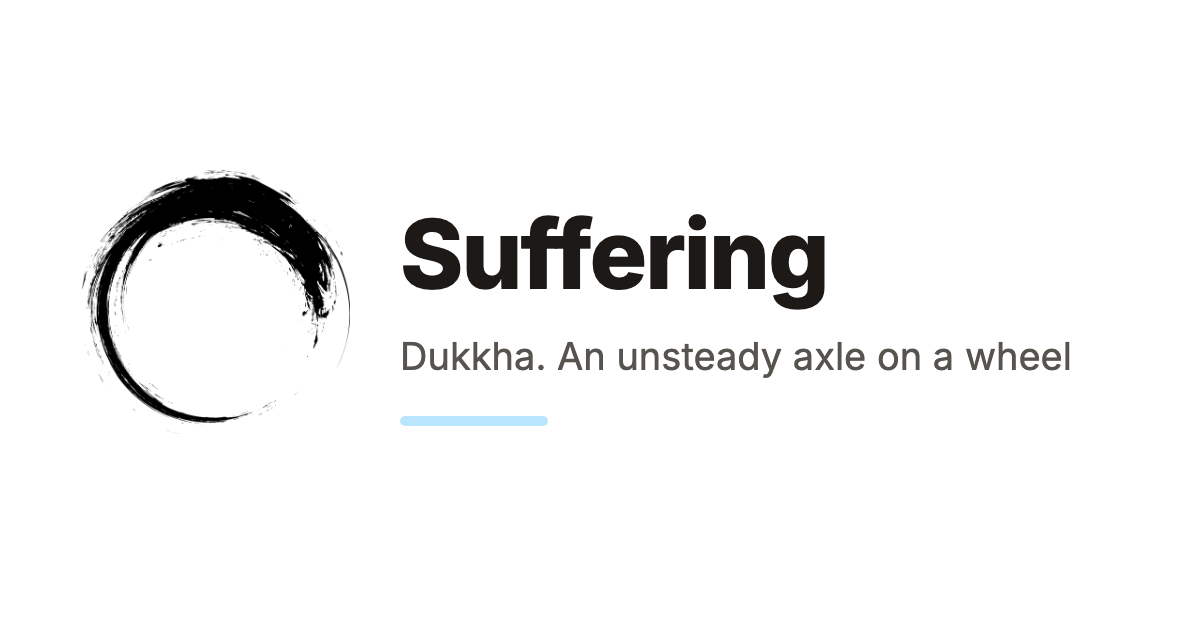
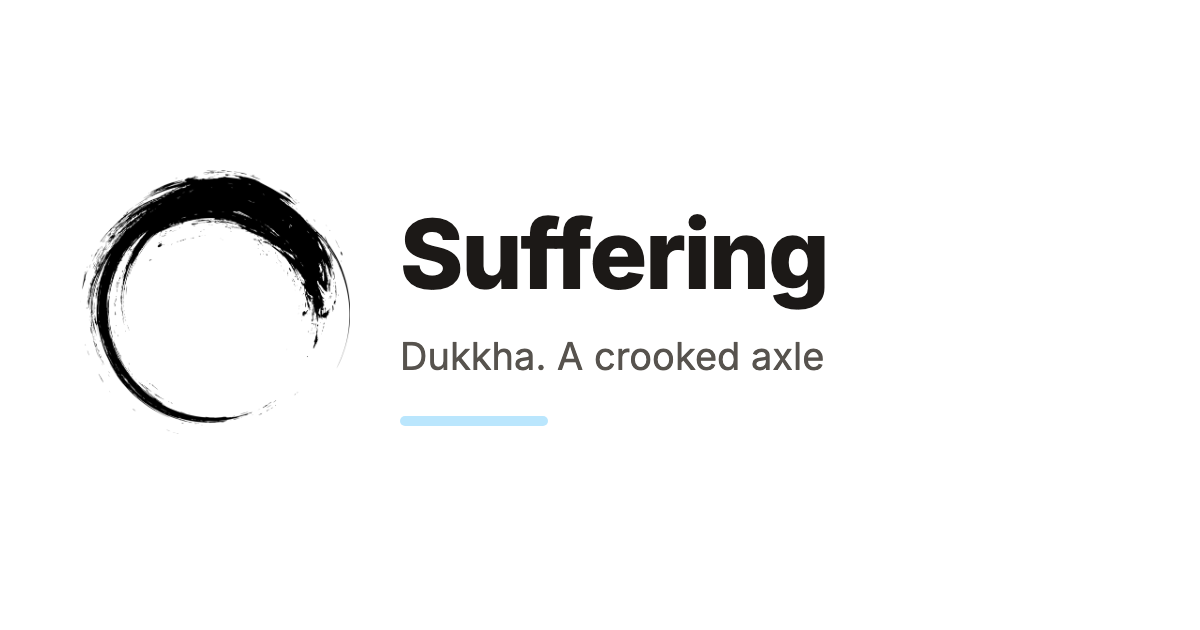
build

Changed region(s): [[0.4933, 0.5429, 0.8942, 0.6032]]

diff --git a/ru/suffering.html b/ru/suffering.html
@@ -18,8 +18,8 @@
 <title>Страдание | tellothers.com</title>
 <meta property="og:title" content="Страдание" />
 <meta property="og:locale" content="ru_RU" />
-<meta name="description" content="Дуккха. Неустойчивая ось колеса. Само слово «страда» — это сбор урожая. «Страдания закаляют характер.» Эта мантра переходит из поколения в поколение." />
-<meta property="og:description" content="Дуккха. Неустойчивая ось колеса. Само слово «страда» — это сбор урожая. «Страдания закаляют характер.» Эта мантра переходит из поколения в поколение." />
+<meta name="description" content="Дуккха. Кривая ось колеса. Само слово «страда» — это сбор урожая. «Страдания закаляют характер.» Эта мантра переходит из поколения в поколение." />
+<meta property="og:description" content="Дуккха. Кривая ось колеса. Само слово «страда» — это сбор урожая. «Страдания закаляют характер.» Эта мантра переходит из поколения в поколение." />
 <link rel="canonical" href="https://tellothers.com/ru/suffering" />
 <meta property="og:url" content="https://tellothers.com/ru/suffering" />
 <meta property="og:site_name" content="tellothers.com" />
@@ -99,7 +99,7 @@
     </h1>
 
       <p class="text-lg sm:text-xl text-stone-500 leading-snug">
-        Дуккха. Неустойчивая ось колеса
+        Дуккха. Кривая ось колеса
       </p>
   </header>
 
@@ -112,7 +112,7 @@
 
 <p>Перевод дуккхи как «страдание» создал буддизму плохую рекламу. — По-вашему, жизнь — страдание, а я сижу кайфую, ха.</p>
 
-<p>Санскритское duḥkha состоит из duḥ («плохой», «трудный») и kha («ось», «пространство»). Буквально — <strong>«неустойчивая ось колеса»</strong>. Дисгармония, дисбаланс, негладкость существования.</p>
+<p>Санскритское duḥkha состоит из duḥ («плохой», «трудный») и kha («ось», «пространство»). Буквально — <strong>«кривая ось колеса»</strong>. Дисбаланс в телеге жизни.</p>
 
 <p>Дуккха это беспокойная неудовлетворённость. Ум генерирует её сам — через сравнение, ожидания, интерпретации. Страдание усиливается верой в то, что мы можем контролировать внешний мир или свои состояния.</p>
 
@@ -131,12 +131,12 @@
   "@type": "DefinedTerm",
   "name": "Страдание",
   "headline": "Страдание",
-  "description": "Дуккха. Неустойчивая ось колеса",
+  "description": "Дуккха. Кривая ось колеса",
   "url": "https://tellothers.com/ru/suffering",
   "mainEntityOfPage": "https://tellothers.com/ru/suffering",
   "image": "https://tellothers.com/images/og/suffering.ru.png",
   "datePublished": "2026-06-15T17:55:05+07:00",
-  "dateModified": "2026-10-15T15:58:39+07:00",
+  "dateModified": "2026-10-22T16:19:16+07:00",
   "inLanguage": "ru",
   "isPartOf": {
     "@type": "WebSite",

diff --git a/suffering.html b/suffering.html
@@ -18,8 +18,8 @@
 <title>Suffering | tellothers.com</title>
 <meta property="og:title" content="Suffering" />
 <meta property="og:locale" content="en_US" />
-<meta name="description" content="Dukkha. An unsteady axle on a wheel. The Russian word for suffering — strada — literally means harvest. The reaping. &quot;Suffering builds character.&quot;" />
-<meta property="og:description" content="Dukkha. An unsteady axle on a wheel. The Russian word for suffering — strada — literally means harvest. The reaping. &quot;Suffering builds character.&quot;" />
+<meta name="description" content="Dukkha. A crooked axle. The Russian word for suffering — strada — literally means harvest. The reaping. &quot;Suffering builds character.&quot;" />
+<meta property="og:description" content="Dukkha. A crooked axle. The Russian word for suffering — strada — literally means harvest. The reaping. &quot;Suffering builds character.&quot;" />
 <link rel="canonical" href="https://tellothers.com/suffering" />
 <meta property="og:url" content="https://tellothers.com/suffering" />
 <meta property="og:site_name" content="tellothers.com" />
@@ -99,7 +99,7 @@
     </h1>
 
       <p class="text-lg sm:text-xl text-stone-500 leading-snug">
-        Dukkha. An unsteady axle on a wheel
+        Dukkha. A crooked axle
       </p>
   </header>
 
@@ -112,7 +112,7 @@
 
 <p>Translating dukkha as “suffering” gave Buddhism bad PR. “So you’re saying life is suffering? I’m sitting here enjoying myself, ha.”</p>
 
-<p>Sanskrit <em>duḥkha</em> = <em>duḥ</em> (“bad,” “difficult”) + <em>kha</em> (“axle,” “space”). Literally: <strong>an unsteady axle on a wheel.</strong> Disharmony, imbalance, the non-smoothness of existence.</p>
+<p>Sanskrit <em>duḥkha</em> = <em>duḥ</em> (“bad,” “difficult”) + <em>kha</em> (“axle,” “space”). Literally: <strong>a crooked axle.</strong> The cart of life runs off balance.</p>
 
 <p>Dukkha is restless dissatisfaction. The mind generates it itself — through comparison, expectation, interpretation. Suffering intensifies through the belief that we can control the external world or our own states.</p>
 
@@ -131,12 +131,12 @@
   "@type": "DefinedTerm",
   "name": "Suffering",
   "headline": "Suffering",
-  "description": "Dukkha. An unsteady axle on a wheel",
+  "description": "Dukkha. A crooked axle",
   "url": "https://tellothers.com/suffering",
   "mainEntityOfPage": "https://tellothers.com/suffering",
   "image": "https://tellothers.com/images/og/suffering.en.png",
   "datePublished": "2026-06-15T17:55:05+07:00",
-  "dateModified": "2026-10-22T16:16:58+07:00",
+  "dateModified": "2026-10-22T16:19:16+07:00",
   "inLanguage": "en",
   "isPartOf": {
     "@type": "WebSite",

diff --git a/ru/index.html b/ru/index.html
@@ -25,7 +25,7 @@
 <meta property="og:site_name" content="tellothers.com" />
 <meta property="og:image" content="https://tellothers.com/images/og-ru.png" />
 <meta property="og:type" content="article" />
-<meta property="article:published_time" content="2026-10-22T02:18:45-07:00" />
+<meta property="article:published_time" content="2026-10-22T02:19:30-07:00" />
 <meta name="twitter:card" content="summary_large_image" />
 <meta property="twitter:image" content="https://tellothers.com/images/og-ru.png" />
 <meta property="twitter:title" content="Сработало? Скажи другим." />
@@ -744,7 +744,7 @@
 
     <a href="/ru/suffering" class="group block no-underline rounded-lg hover:bg-white p-4 transition-all duration-700 ease-out hover:shadow-lg hover:shadow-stone-900/5">
   <div class="font-sans font-bold text-stone-800 group-hover:text-stone-950 transition duration-700">Страдание</div>
-    <div class="mt-1 text-sm text-stone-600 leading-snug transition duration-700">Дуккха. Неустойчивая ось колеса</div>
+    <div class="mt-1 text-sm text-stone-600 leading-snug transition duration-700">Дуккха. Кривая ось колеса</div>
 </a>
 
 

diff --git a/index.html b/index.html
@@ -25,7 +25,7 @@
 <meta property="og:site_name" content="tellothers.com" />
 <meta property="og:image" content="https://tellothers.com/images/og-en.png" />
 <meta property="og:type" content="article" />
-<meta property="article:published_time" content="2026-10-22T02:18:45-07:00" />
+<meta property="article:published_time" content="2026-10-22T02:19:30-07:00" />
 <meta name="twitter:card" content="summary_large_image" />
 <meta property="twitter:image" content="https://tellothers.com/images/og-en.png" />
 <meta property="twitter:title" content="It worked? Tell others." />
@@ -744,7 +744,7 @@
 
     <a href="/suffering" class="group block no-underline rounded-lg hover:bg-white p-4 transition-all duration-700 ease-out hover:shadow-lg hover:shadow-stone-900/5">
   <div class="font-sans font-bold text-stone-800 group-hover:text-stone-950 transition duration-700">Suffering</div>
-    <div class="mt-1 text-sm text-stone-600 leading-snug transition duration-700">Dukkha. An unsteady axle on a wheel</div>
+    <div class="mt-1 text-sm text-stone-600 leading-snug transition duration-700">Dukkha. A crooked axle</div>
 </a>
 
 

diff --git a/ru/everything-is-a-lesson.html b/ru/everything-is-a-lesson.html
@@ -172,7 +172,7 @@
 
             <a href="/ru/suffering" class="group block no-underline rounded-lg hover:bg-white p-4 transition-all duration-700 ease-out hover:shadow-lg hover:shadow-stone-900/5">
   <div class="font-sans font-bold text-stone-800 group-hover:text-stone-950 transition duration-700">Страдание</div>
-    <div class="mt-1 text-sm text-stone-600 leading-snug transition duration-700">Дуккха. Неустойчивая ось колеса</div>
+    <div class="mt-1 text-sm text-stone-600 leading-snug transition duration-700">Дуккха. Кривая ось колеса</div>
 </a>
 
             <a href="/ru/drop-suffering" class="group block no-underline rounded-lg hover:bg-white p-4 transition-all duration-700 ease-out hover:shadow-lg hover:shadow-stone-900/5">

diff --git a/ru/anicca.html b/ru/anicca.html
@@ -152,7 +152,7 @@
 
             <a href="/ru/suffering" class="group block no-underline rounded-lg hover:bg-white p-4 transition-all duration-700 ease-out hover:shadow-lg hover:shadow-stone-900/5">
   <div class="font-sans font-bold text-stone-800 group-hover:text-stone-950 transition duration-700">Страдание</div>
-    <div class="mt-1 text-sm text-stone-600 leading-snug transition duration-700">Дуккха. Неустойчивая ось колеса</div>
+    <div class="mt-1 text-sm text-stone-600 leading-snug transition duration-700">Дуккха. Кривая ось колеса</div>
 </a>
 
             <a href="/ru/dont-wait" class="group block no-underline rounded-lg hover:bg-white p-4 transition-all duration-700 ease-out hover:shadow-lg hover:shadow-stone-900/5">

diff --git a/ru/drop-suffering.html b/ru/drop-suffering.html
@@ -187,7 +187,7 @@
 
             <a href="/ru/suffering" class="group block no-underline rounded-lg hover:bg-white p-4 transition-all duration-700 ease-out hover:shadow-lg hover:shadow-stone-900/5">
   <div class="font-sans font-bold text-stone-800 group-hover:text-stone-950 transition duration-700">Страдание</div>
-    <div class="mt-1 text-sm text-stone-600 leading-snug transition duration-700">Дуккха. Неустойчивая ось колеса</div>
+    <div class="mt-1 text-sm text-stone-600 leading-snug transition duration-700">Дуккха. Кривая ось колеса</div>
 </a>
 
             <a href="/ru/surrender" class="group block no-underline rounded-lg hover:bg-white p-4 transition-all duration-700 ease-out hover:shadow-lg hover:shadow-stone-900/5">

diff --git a/ru/karma.html b/ru/karma.html
@@ -171,7 +171,7 @@
 
             <a href="/ru/suffering" class="group block no-underline rounded-lg hover:bg-white p-4 transition-all duration-700 ease-out hover:shadow-lg hover:shadow-stone-900/5">
   <div class="font-sans font-bold text-stone-800 group-hover:text-stone-950 transition duration-700">Страдание</div>
-    <div class="mt-1 text-sm text-stone-600 leading-snug transition duration-700">Дуккха. Неустойчивая ось колеса</div>
+    <div class="mt-1 text-sm text-stone-600 leading-snug transition duration-700">Дуккха. Кривая ось колеса</div>
 </a>
 
             <a href="/ru/mine-joy" class="group block no-underline rounded-lg hover:bg-white p-4 transition-all duration-700 ease-out hover:shadow-lg hover:shadow-stone-900/5">

diff --git a/everything-is-a-lesson.html b/everything-is-a-lesson.html
@@ -172,7 +172,7 @@
 
             <a href="/suffering" class="group block no-underline rounded-lg hover:bg-white p-4 transition-all duration-700 ease-out hover:shadow-lg hover:shadow-stone-900/5">
   <div class="font-sans font-bold text-stone-800 group-hover:text-stone-950 transition duration-700">Suffering</div>
-    <div class="mt-1 text-sm text-stone-600 leading-snug transition duration-700">Dukkha. An unsteady axle on a wheel</div>
+    <div class="mt-1 text-sm text-stone-600 leading-snug transition duration-700">Dukkha. A crooked axle</div>
 </a>
 
             <a href="/drop-suffering" class="group block no-underline rounded-lg hover:bg-white p-4 transition-all duration-700 ease-out hover:shadow-lg hover:shadow-stone-900/5">

diff --git a/anicca.html b/anicca.html
@@ -152,7 +152,7 @@
 
             <a href="/suffering" class="group block no-underline rounded-lg hover:bg-white p-4 transition-all duration-700 ease-out hover:shadow-lg hover:shadow-stone-900/5">
   <div class="font-sans font-bold text-stone-800 group-hover:text-stone-950 transition duration-700">Suffering</div>
-    <div class="mt-1 text-sm text-stone-600 leading-snug transition duration-700">Dukkha. An unsteady axle on a wheel</div>
+    <div class="mt-1 text-sm text-stone-600 leading-snug transition duration-700">Dukkha. A crooked axle</div>
 </a>
 
             <a href="/dont-wait" class="group block no-underline rounded-lg hover:bg-white p-4 transition-all duration-700 ease-out hover:shadow-lg hover:shadow-stone-900/5">

diff --git a/drop-suffering.html b/drop-suffering.html
@@ -187,7 +187,7 @@
 
             <a href="/suffering" class="group block no-underline rounded-lg hover:bg-white p-4 transition-all duration-700 ease-out hover:shadow-lg hover:shadow-stone-900/5">
   <div class="font-sans font-bold text-stone-800 group-hover:text-stone-950 transition duration-700">Suffering</div>
-    <div class="mt-1 text-sm text-stone-600 leading-snug transition duration-700">Dukkha. An unsteady axle on a wheel</div>
+    <div class="mt-1 text-sm text-stone-600 leading-snug transition duration-700">Dukkha. A crooked axle</div>
 </a>
 
             <a href="/surrender" class="group block no-underline rounded-lg hover:bg-white p-4 transition-all duration-700 ease-out hover:shadow-lg hover:shadow-stone-900/5">

diff --git a/karma.html b/karma.html
@@ -171,7 +171,7 @@
 
             <a href="/suffering" class="group block no-underline rounded-lg hover:bg-white p-4 transition-all duration-700 ease-out hover:shadow-lg hover:shadow-stone-900/5">
   <div class="font-sans font-bold text-stone-800 group-hover:text-stone-950 transition duration-700">Suffering</div>
-    <div class="mt-1 text-sm text-stone-600 leading-snug transition duration-700">Dukkha. An unsteady axle on a wheel</div>
+    <div class="mt-1 text-sm text-stone-600 leading-snug transition duration-700">Dukkha. A crooked axle</div>
 </a>
 
             <a href="/mine-joy" class="group block no-underline rounded-lg hover:bg-white p-4 transition-all duration-700 ease-out hover:shadow-lg hover:shadow-stone-900/5">
